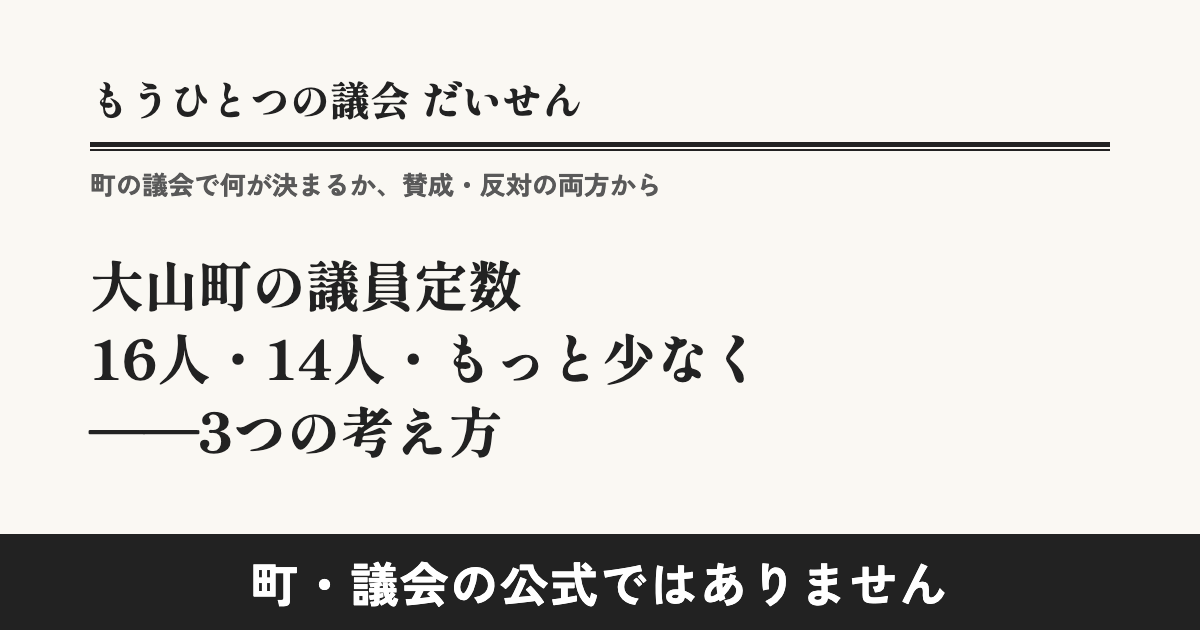
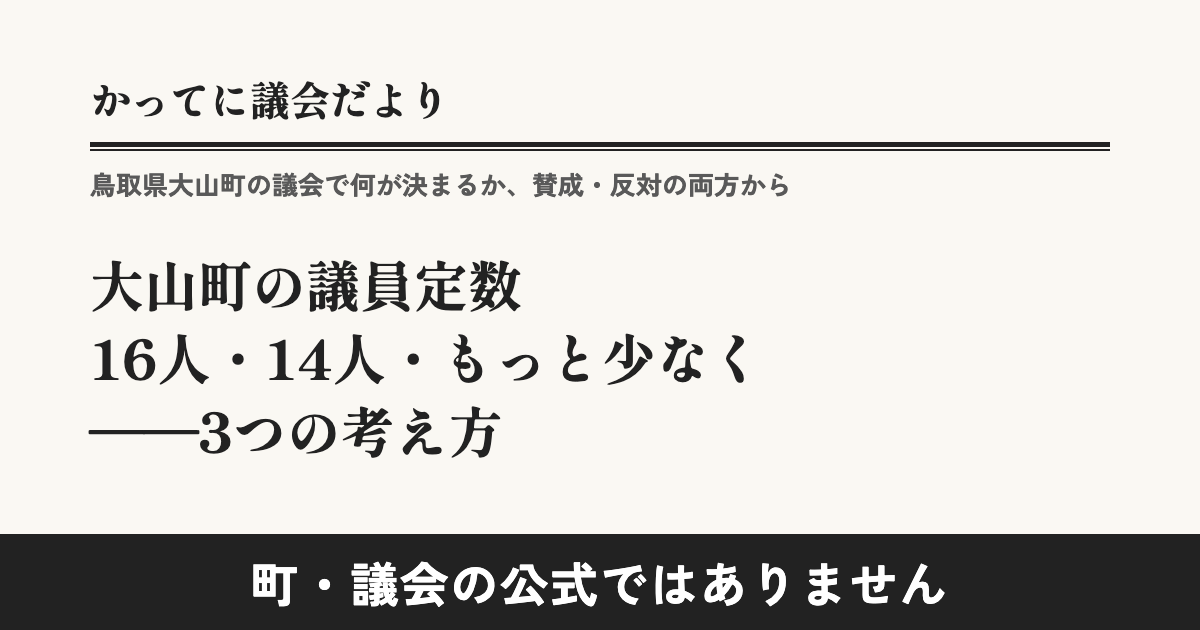
サイト名を「かってに議会だより」に（試し）。表・グラフ、共有画像、公開の仕組みを追加

Changed region(s): [[0.0617, 0.2714, 0.6783, 0.3317], [0.0617, 0.1206, 0.4933, 0.2111]]

diff --git a/src/config/site.ts b/src/config/site.ts
@@ -1,8 +1,7 @@
 // サイト全体の設定。名前とURLはここを直せば全ページに反映される
 export const SITE = {
-  name: 'もうひとつの議会',
-  nameSub: 'だいせん',
-  subtitle: '町の議会で何が決まるか、賛成・反対の両方から',
+  name: 'かってに議会だより',
+  subtitle: '鳥取県大山町の議会で何が決まるか、賛成・反対の両方から',
   description:
     '鳥取県大山町の議会で何が決まるかを、賛成・反対の両方から解説し、町民の声を議員に届けます。町・議会の公式サイトではありません。',
   notOfficial: '大山町・大山町議会の公式サイトではありません',
